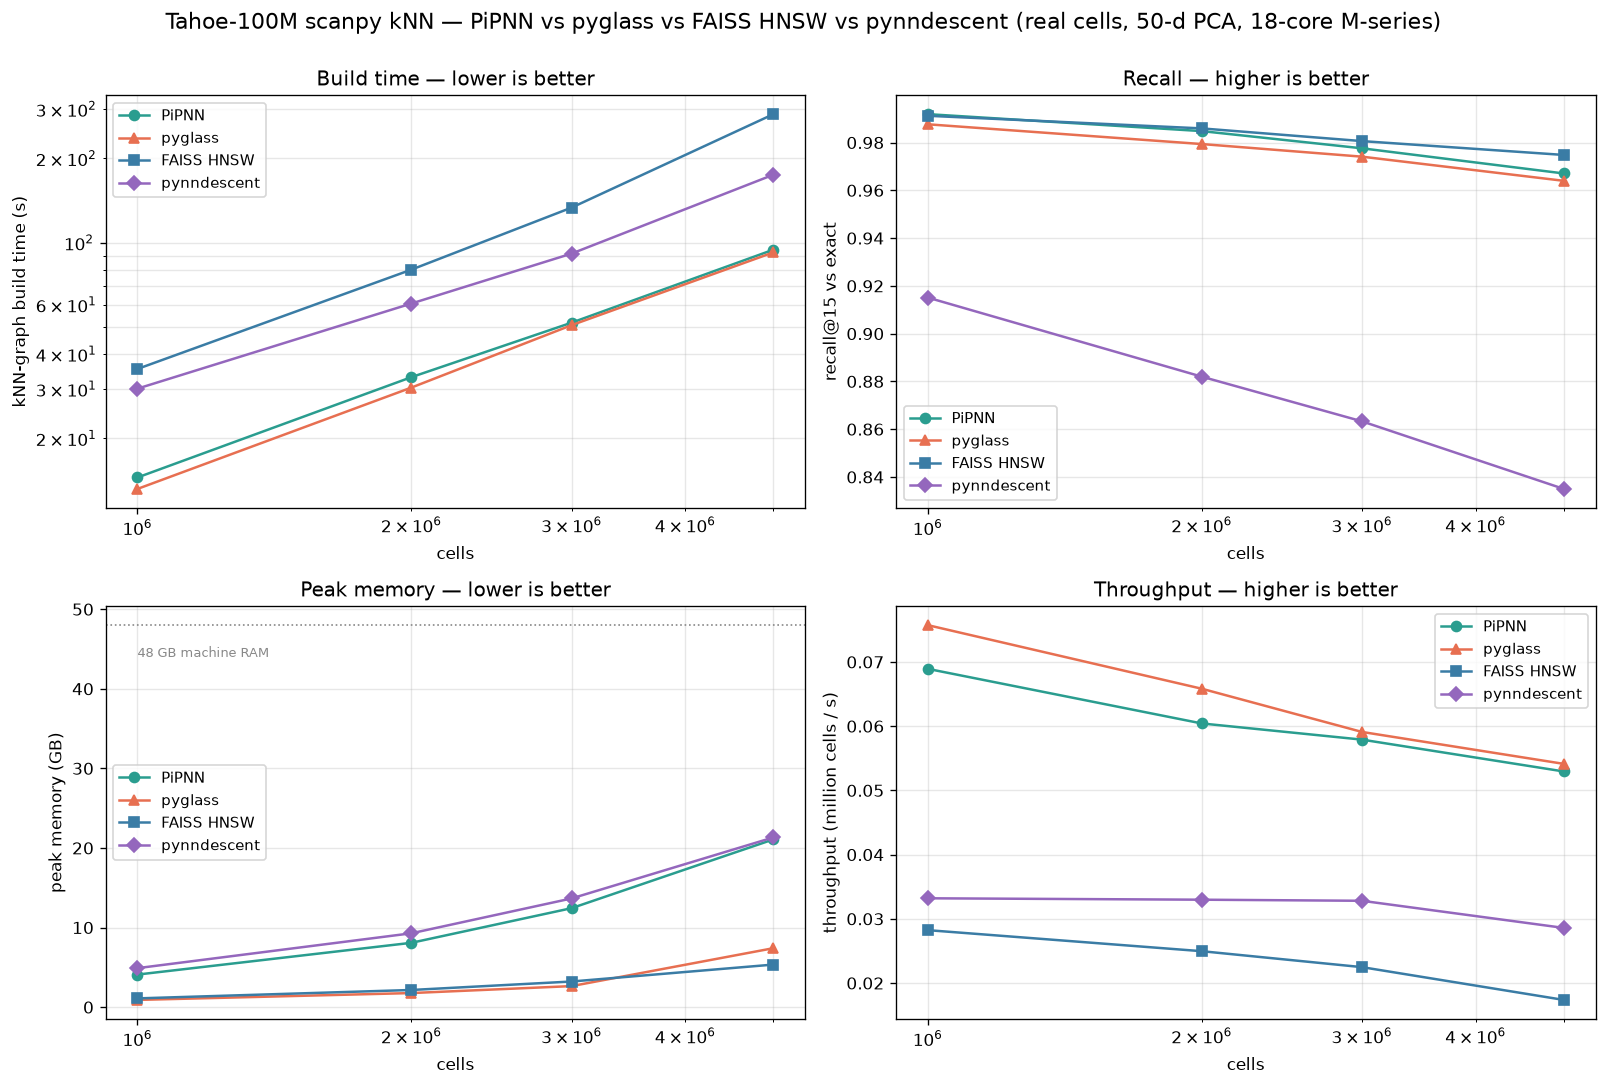
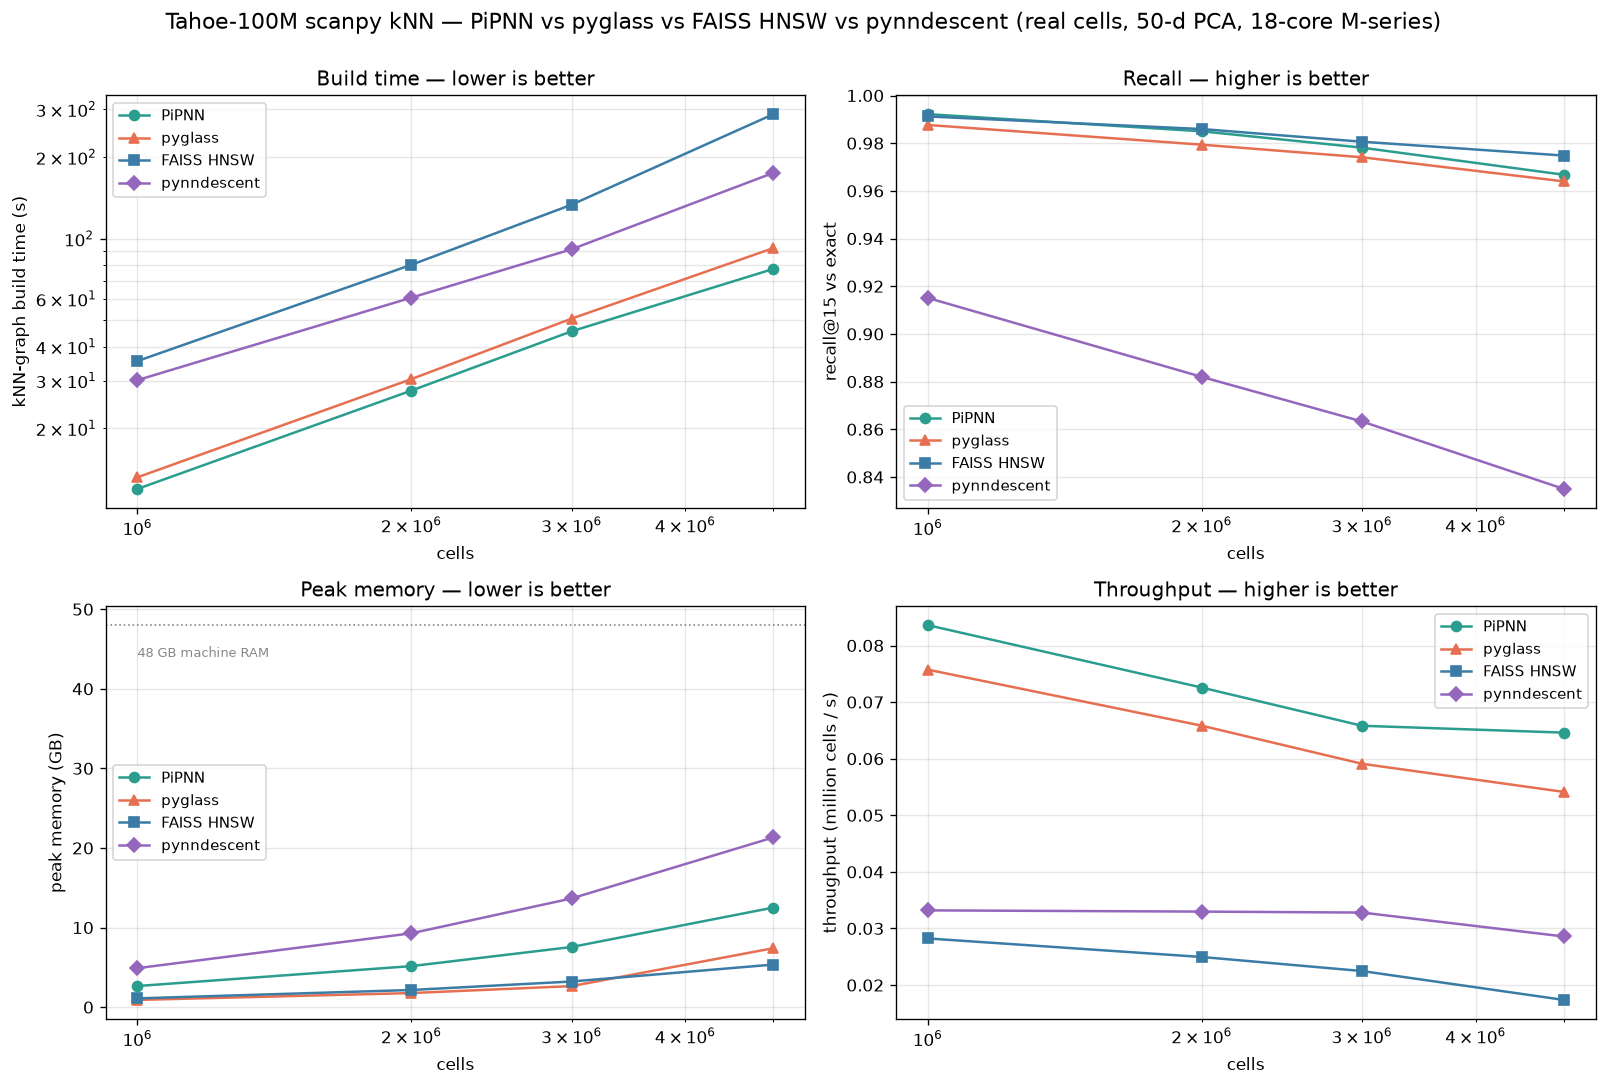
Cut PiPNN peak memory ~40% (flat CSR build + l_max 96→64)
PiPNN's peak RSS was dominated by the build's per-point Vec<Vec> structures —
the reservoirs, out-edges, and especially symmetrize cloning + tripling the
adjacency — i.e. millions of tiny allocations plus their allocator overhead.

Two changes:
1. Build the symmetrized CSR graph from FLAT fixed-stride buffers via counting
   sort (symmetrize_flat) instead of Vec<Vec> clone/triple; robust_prune writes
   out-edges into one flat n*R buffer. No per-point graph allocations.
2. l_max default 96 → 64 — the reservoir is pre-allocated (8*l_max*n), so this
   directly trims that share; recall headroom on SIFT/Tahoe absorbs it.

Tahoe self-kNN (real cells, 1M–5M), PiPNN before → after:
  peak  5M: 21.1 → 12.5 GB (-41%); 3M 12.4→7.6; 2M 8.1→5.2; 1M 4.1→2.7
  build 5M: 94.4 → 77.4s (-18%, fewer allocations); recall UNCHANGED (0.967 etc.)

PiPNN is now the fastest builder at every size and mid-pack on memory (above the
flat-array HNSWs, below pynndescent). l_max=64 is the new default in the bindings
+ Python wrappers. Core recall tests pass; bench_tahoe.py gains --backends (run a
subset, merge into existing json). (Full pytest deadlocks locally on macOS from
faiss+pipnn sharing one process — a pre-existing OpenMP/rayon issue, green on CI.)

diff --git a/crates/pipnn-core/src/build.rs b/crates/pipnn-core/src/build.rs
@@ -138,60 +138,131 @@ pub fn build_index_with_cands(
     }
     lap!("leaf+hashprune", t);
 
-    // Alg 4 line 8 ("PruneNode"): RobustPrune each reservoir to ≤ R out-edges.
-    // Optionally stash each point's top-`m_cands` nearest candidates first (the
-    // self-kNN seed) — RobustPrune mutates/consumes the sorted list.
-    let (out_adj, self_cands): (Vec<Vec<Id>>, Vec<Vec<(Id, f32)>>) = reservoirs
+    // Alg 4 line 8 ("PruneNode"): RobustPrune each reservoir to ≤ R out-edges,
+    // written into one flat fixed-stride buffer (`out_idx`, stride r; `out_deg`
+    // valid entries/node) rather than a `Vec<Vec>` — millions of tiny per-point
+    // allocations were a large share of peak RSS. Optionally stash each point's
+    // top-`m_cands` nearest candidates first (the self-kNN seed); RobustPrune
+    // mutates/consumes the sorted list.
+    let r = p.r;
+    let mut out_idx = vec![Id::MAX; n * r];
+    let mut out_deg = vec![0u32; n];
+    let self_cands: Vec<Vec<(Id, f32)>> = reservoirs
         .into_par_iter()
+        .zip(out_idx.par_chunks_mut(r))
+        .zip(out_deg.par_iter_mut())
         .enumerate()
-        .map(|(x, res)| {
+        .map(|(x, ((res, slot), deg))| {
             let mut c = res.into_inner().unwrap().into_sorted();
             let cands = if m_cands > 0 {
                 c.iter().take(m_cands).copied().collect()
             } else {
                 Vec::new()
             };
-            let adj = robust_prune(data, x as Id, &mut c, p.alpha, p.r);
-            (adj, cands)
+            let adj = robust_prune(data, x as Id, &mut c, p.alpha, r);
+            slot[..adj.len()].copy_from_slice(&adj);
+            *deg = adj.len() as u32;
+            cands
         })
-        .unzip();
+        .collect();
     lap!("robustprune", t);
 
-    // Symmetrize for navigability (Vamana-style reverse edges), then cap degree.
-    let final_adj = symmetrize(data, &out_adj, p.r);
+    // Symmetrize (Vamana reverse edges) + degree-cap, assembling the CSR graph
+    // directly from flat buffers — no Vec<Vec> clone/triple.
     let entry = approx_medoid(data);
+    let graph = symmetrize_flat(data, &out_idx, &out_deg, n, r, entry);
     lap!("symmetrize", t);
-    (Graph::from_adjacency(final_adj, entry), self_cands)
+    (graph, self_cands)
 }
 
-/// Add reverse edges and cap each node's degree at `r` by keeping its `r`
-/// closest neighbors. Keeps the graph strongly connected for BeamSearch.
-fn symmetrize(data: &Dataset, out_adj: &[Vec<Id>], r: usize) -> Vec<Vec<Id>> {
-    let n = out_adj.len();
-    let mut sets: Vec<Vec<Id>> = out_adj.to_vec();
-    for (x, nbrs) in out_adj.iter().enumerate() {
-        for &y in nbrs {
-            sets[y as usize].push(x as Id);
+/// Add reverse edges, dedup, and cap each node to its `r` closest neighbors,
+/// assembling the CSR [`Graph`] directly from the flat fixed-stride out-edge
+/// buffer (`out_idx`, stride `r`; `out_deg[x]` valid entries/node). All scratch
+/// is flat (counting-sort) instead of per-node `Vec`s, keeping peak RSS low.
+fn symmetrize_flat(
+    data: &Dataset,
+    out_idx: &[Id],
+    out_deg: &[u32],
+    n: usize,
+    r: usize,
+    entry: Id,
+) -> Graph {
+    // 1. Degree of the symmetric multigraph: own out-edges + incoming reverses.
+    let mut cnt = vec![0u32; n];
+    for x in 0..n {
+        let dx = out_deg[x] as usize;
+        cnt[x] += dx as u32;
+        for &y in &out_idx[x * r..x * r + dx] {
+            cnt[y as usize] += 1;
         }
     }
-    (0..n)
-        .into_par_iter()
-        .map(|x| {
-            let mut v = sets[x].clone();
-            v.sort_unstable();
-            v.dedup();
-            v.retain(|&y| y as usize != x);
-            if v.len() > r {
-                let mut withd: Vec<(f32, Id)> = v
-                    .iter()
-                    .map(|&y| (data.sq_dist(x, y as usize), y))
-                    .collect();
-                withd.sort_by(|a, b| a.0.partial_cmp(&b.0).unwrap().then(a.1.cmp(&b.1)));
-                withd.truncate(r);
-                withd.into_iter().map(|(_, y)| y).collect()
-            } else {
-                v
-            }
-        })
-        .collect()
+    // 2. Counting-sort fill into one flat buffer `tidx` (≤ 2·n·R entries).
+    let mut toff = vec![0usize; n + 1];
+    for i in 0..n {
+        toff[i + 1] = toff[i] + cnt[i] as usize;
+    }
+    let mut tidx = vec![0 as Id; toff[n]];
+    let mut cur: Vec<usize> = toff[..n].to_vec();
+    for x in 0..n {
+        let dx = out_deg[x] as usize;
+        for &y in &out_idx[x * r..x * r + dx] {
+            tidx[cur[x]] = y;
+            cur[x] += 1;
+            let yi = y as usize;
+            tidx[cur[yi]] = x as Id;
+            cur[yi] += 1;
+        }
+    }
+    drop(cur);
+    drop(cnt);
+
+    // 3. Per-node dedup + drop self + keep the r closest → fixed-stride `fpad`.
+    //    Reusable per-thread scratch (no per-node allocation).
+    let mut fpad = vec![Id::MAX; n * r];
+    let mut fdeg = vec![0u32; n];
+    fpad.par_chunks_mut(r)
+        .zip(fdeg.par_iter_mut())
+        .enumerate()
+        .for_each_init(
+            || (Vec::<Id>::with_capacity(2 * r), Vec::<(f32, Id)>::with_capacity(2 * r)),
+            |(buf, withd), (x, (slot, deg))| {
+                buf.clear();
+                buf.extend(
+                    tidx[toff[x]..toff[x + 1]]
+                        .iter()
+                        .copied()
+                        .filter(|&y| y as usize != x),
+                );
+                buf.sort_unstable();
+                buf.dedup();
+                let k = if buf.len() > r {
+                    withd.clear();
+                    withd.extend(buf.iter().map(|&y| (data.sq_dist(x, y as usize), y)));
+                    withd.select_nth_unstable_by(r, |a, b| a.0.partial_cmp(&b.0).unwrap());
+                    for (i, &(_, y)) in withd[..r].iter().enumerate() {
+                        slot[i] = y;
+                    }
+                    r
+                } else {
+                    slot[..buf.len()].copy_from_slice(buf);
+                    buf.len()
+                };
+                *deg = k as u32;
+            },
+        );
+    drop(tidx);
+    drop(toff);
+
+    // 4. Compact the fixed-stride buffer into the final CSR (one pass).
+    let mut indptr = vec![0usize; n + 1];
+    for i in 0..n {
+        indptr[i + 1] = indptr[i] + fdeg[i] as usize;
+    }
+    let mut indices = vec![0 as Id; indptr[n]];
+    for x in 0..n {
+        let k = fdeg[x] as usize;
+        let dst = indptr[x];
+        indices[dst..dst + k].copy_from_slice(&fpad[x * r..x * r + k]);
+    }
+    Graph { indptr, indices, entry }
 }

diff --git a/bench/bench_tahoe.py b/bench/bench_tahoe.py
@@ -139,11 +139,18 @@ def main():
     ap.add_argument("--source", type=int, default=3_000_000, help="which X_pca_<N>.npy to slice")
     ap.add_argument("--cooldown", type=int, default=0,
                     help="seconds to idle before each backend (thermal headroom on laptops)")
+    ap.add_argument("--backends", default="",
+                    help="comma list to run (default all); others kept from existing json")
     args = ap.parse_args()
 
     src = os.path.join(CACHE, f"X_pca_{args.source}.npy")
     full = np.load(src, mmap_mode="r")
     print(f"loaded {src}: {full.shape}\n")
+
+    selected = [b for b in BACKENDS if not args.backends or b[0] in args.backends.split(",")]
+    out = os.path.join(HERE, "tahoe_bench.json")
+    # Merge into existing results so a single-backend re-run updates just its rows.
+    existing = {r["n"]: r for r in json.load(open(out))} if os.path.exists(out) else {}
 
     rows = []
     for n in args.sizes:
@@ -153,9 +160,9 @@ def main():
         X = np.ascontiguousarray(full[:n], dtype=np.float32)
         sub = np.random.default_rng(1).choice(n, min(n, 4000), replace=False)
         ex = exact_isolated(X, sub)
-        row = {"n": n}
+        row = existing.get(n, {"n": n})  # preserve unselected backends
         print(f"=== n={n:,} (d={X.shape[1]}) ===", flush=True)
-        for name, fn in BACKENDS:
+        for name, fn in selected:
             if args.cooldown:
                 time.sleep(args.cooldown)  # shed heat so build times aren't throttled
             t, rec, peak = run_isolated(fn, X, sub, ex)
@@ -167,7 +174,7 @@ def main():
         rows.append(row)
         del X, ex
         gc.collect()
-        with open(os.path.join(HERE, "tahoe_bench.json"), "w") as f:
+        with open(out, "w") as f:
             json.dump(rows, f, indent=2)
 
     _plot(rows)

diff --git a/crates/pipnn-core/src/params.rs b/crates/pipnn-core/src/params.rs
@@ -7,7 +7,9 @@ pub struct BuildParams {
     pub metric: Metric,
     /// Number of LSH hyperplanes `m` for HashPrune residual codes (8–16; 12 default).
     pub m: usize,
-    /// Per-point reservoir capacity `ℓ_max` (64–192; 96 default).
+    /// Per-point reservoir capacity `ℓ_max` (64–192). 64 default — the reservoir
+    /// is pre-allocated (8·ℓ_max·n bytes), so this directly sets that share of
+    /// peak RSS; 64 keeps recall while trimming it vs the paper's looser 96.
     pub l_max: usize,
     /// Max out-degree `R` of the final graph after RobustPrune (64 default).
     pub r: usize,
@@ -36,7 +38,7 @@ impl Default for BuildParams {
         BuildParams {
             metric: Metric::L2,
             m: 12,
-            l_max: 96,
+            l_max: 64,
             r: 64,
             alpha: 1.2,
             fanout: 2,

diff --git a/python/pipnn/index.py b/python/pipnn/index.py
@@ -30,7 +30,7 @@ class PiPNNIndex:
         *,
         metric: str = "euclidean",
         m: int = 12,
-        l_max: int = 96,
+        l_max: int = 64,
         R: int = 64,
         alpha: float = 1.2,
         fanout: int = 2,
@@ -62,7 +62,7 @@ def self_knn_graph(
     *,
     metric: str = "euclidean",
     m: int = 12,
-    l_max: int = 96,
+    l_max: int = 64,
     R: int = 64,
     alpha: float = 1.2,
     beam_L: int = 64,
@@ -99,7 +99,7 @@ def query_knn(
     *,
     metric: str = "euclidean",
     m: int = 12,
-    l_max: int = 96,
+    l_max: int = 64,
     R: int = 64,
     alpha: float = 1.2,
     beam_L: int = 64,

diff --git a/src/lib.rs b/src/lib.rs
@@ -26,7 +26,7 @@ use pipnn_core::{
 #[allow(clippy::too_many_arguments)]
 #[pyo3(signature = (
     x, n_neighbors, metric="euclidean",
-    m=12, l_max=96, r=64, alpha=1.2, beam_l=64,
+    m=12, l_max=64, r=64, alpha=1.2, beam_l=64,
     fanout=2, c_min=256, c_max=2048, runs=1, n_jobs=0, seed=0,
 ))]
 fn build_and_self_knn<'py>(
@@ -211,7 +211,7 @@ fn hnsw_self_knn<'py>(
 #[allow(clippy::too_many_arguments)]
 #[pyo3(signature = (
     x, queries, n_neighbors, metric="euclidean",
-    m=12, l_max=96, r=64, alpha=1.2, beam_l=64,
+    m=12, l_max=64, r=64, alpha=1.2, beam_l=64,
     fanout=2, c_min=256, c_max=2048, runs=1, n_jobs=0, seed=0,
 ))]
 fn build_and_query<'py>(
@@ -326,7 +326,7 @@ impl PiPNNIndex {
     #[allow(clippy::too_many_arguments)]
     #[pyo3(signature = (
         x, metric="euclidean",
-        m=12, l_max=96, r=64, alpha=1.2,
+        m=12, l_max=64, r=64, alpha=1.2,
         fanout=2, c_min=256, c_max=2048, runs=1, n_jobs=0, seed=0,
     ))]
     fn new(

diff --git a/python/pipnn/transformer.py b/python/pipnn/transformer.py
@@ -58,7 +58,7 @@ class PiPNNTransformer(TransformerMixin, BaseEstimator):
         *,
         metric: str = "euclidean",
         m: int = 12,
-        l_max: int = 96,
+        l_max: int = 64,
         R: int = 64,
         alpha: float = 1.2,
         beam_L: int = 64,

diff --git a/README.md b/README.md
@@ -412,27 +412,27 @@ machine ceiling, and throughput. `bench/tahoe_plot_all.py` regenerates it from
 
 | cells | PiPNN | pyglass | FAISS HNSW | pynndescent |
 |---|---|---|---|---|
-| 1M | 14.5s / 0.992 | **13.2s** / 0.988 | 35.4s / 0.991 | 30.1s / 0.915 |
-| 2M | 33.1s / 0.985 | **30.4s** / 0.979 | 80.1s / 0.986 | 60.6s / 0.882 |
-| 3M | 51.8s / 0.978 | **50.8s** / 0.974 | 133.4s / 0.981 | 91.4s / 0.863 |
-| 5M | 94.4s / 0.967 | **92.4s** / 0.964 | 287.8s / 0.975 | 174.9s / 0.835 |
+| 1M | **12.0s** / 0.992 · 2.7 GB | 13.2s / 0.988 · 0.9 GB | 35.4s / 0.991 · 1.1 GB | 30.1s / 0.915 · 4.9 GB |
+| 2M | **27.6s** / 0.985 · 5.2 GB | 30.4s / 0.979 · 1.8 GB | 80.1s / 0.986 · 2.2 GB | 60.6s / 0.882 · 9.3 GB |
+| 3M | **45.6s** / 0.978 · 7.6 GB | 50.8s / 0.974 · 2.6 GB | 133.4s / 0.981 · 3.2 GB | 91.4s / 0.863 · 13.7 GB |
+| 5M | **77.4s** / 0.967 · 12.5 GB | 92.4s / 0.964 · 7.4 GB | 287.8s / 0.975 · 5.3 GB | 174.9s / 0.835 · 21.3 GB |
 
-*(cells show `graph build time / recall@15`; 50-d PCA, 18-core M-series.)*
+*(cells show `graph build time / recall@15 · peak memory`; 50-d PCA, 18-core M-series.)*
 
-- For the **scanpy self-kNN workload, PiPNN and pyglass build ~2.5–3× faster than
-  FAISS HNSW**, and the gap **grows with scale** (2.5× at 1M → 3.1× at 5M; 5M is
-  ~93s vs FAISS's ~288s) at near-equal recall — the build-time story from the
-  synthetic sweeps holds, and widens, on real cells.
+- **PiPNN builds fastest at every scale**, ~2.5–3.7× faster than FAISS HNSW and the
+  gap **grows with `n`** (5M: ~77s vs FAISS's ~288s) at near-equal recall — the
+  build-time story from the synthetic sweeps holds, and widens, on real cells.
 - **PiPNN and FAISS lead on recall** (~0.97–0.99); pyglass trails slightly.
 - **pynndescent (scanpy's default) reaches 5M but at a steep recall cost.** At
   default settings its recall **collapses 0.915 → 0.835** as `n` grows — far below
-  the others — while build time lands between PiPNN/pyglass and FAISS. Matching the
-  others' recall needs more iterations/neighbors, i.e. much slower still. Memory is
-  *not* its limit here: it scales to 5M at **21.3 GB** (≈ PiPNN), never approaching
-  the 48 GB ceiling.
-- **Memory** (child peak at 5M): pyglass **7.4 GB**, FAISS 5.3 GB, PiPNN 21.1 GB,
-  pynndescent 21.3 GB — PiPNN's per-point HashPrune reservoirs are the price of its
-  build speed (the one axis where it's costly at scale).
+  the others — while build time lands between PiPNN and FAISS. Matching the others'
+  recall needs more iterations/neighbors, i.e. much slower still. Memory is *not*
+  its limit here: it scales to 5M at **21.3 GB**, never approaching the 48 GB ceiling.
+- **Memory** (child peak at 5M): FAISS **5.3 GB**, pyglass 7.4 GB, PiPNN 12.5 GB,
+  pynndescent 21.3 GB. PiPNN is heavier than the flat-array HNSWs (its per-point
+  HashPrune reservoirs + candidate graph) but **~40 % lighter than before** — a flat
+  CSR build pipeline (no `Vec<Vec>` clone/triple) plus `l_max 96 → 64` cut 5M from
+  21 → 12.5 GB *and* shaved ~17 % off build time, with recall unchanged.
 
 Each backend runs in its own subprocess: PiPNN (rayon) and pyglass/FAISS (OpenMP)
 otherwise deadlock when sharing one process (multiple threading runtimes on macOS).